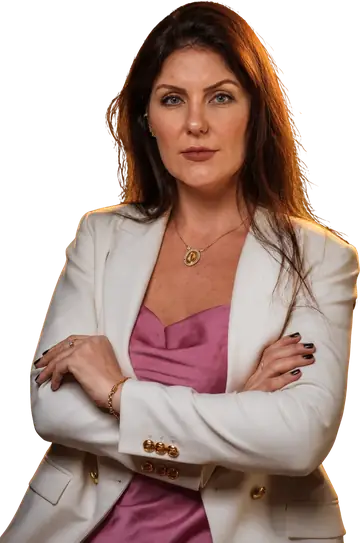
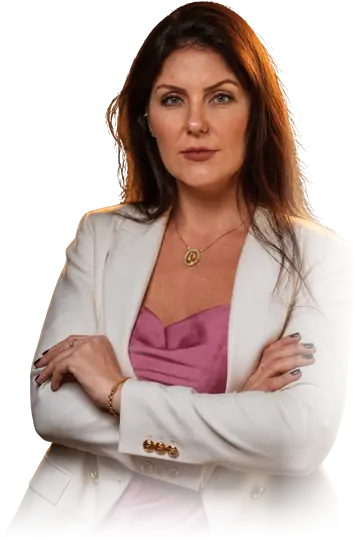
feat(linkbio): hero cinematografico — foto central, luz de recorte e micropixels
Hero enxuto em 5 elementos (nome, credencial, headline com italico, publico, CTA
compacto): saem o monograma KN e o microtexto. A foto vira o centro da composicao,
ancorada na base, com halo dourado assimetrico atras (luz de recorte), vinheta de
contato e entrada sequenciada (luz -> foto -> texto -> CTA).

Correcoes de composicao:
- "quadrado preto" atras da personagem: era o drop-shadow — a silhueta encosta nas
  bordas laterais do recorte e a sombra tinha arestas retas, reveladas pelo halo.
  Removido; aterramento vem da vinheta + fade.
- bordas do recorte dissolvidas NO ASSET (rampa de alfa na direita e na base,
  regenerado do original): sem linha de corte, sem mask CSS, 24->20 KB.
- fade da foto parte de opacity .01 (nao 0) p/ o LCP contar a primeira pintura:
  LCP 920 ms no throttling Slow 4G/CPU 4x (meta 2500).

Chuva de micropixels dourados vira camada fixa da pagina inteira (2 planos de
pontos quadrados via box-shadow, queda lenta dessincronizada, quase imperceptivel).
Tudo desligado em prefers-reduced-motion. Tracking intocado (gates verdes).

Changed region(s): [[0.0, 0.2063, 1.0, 1.0]]

diff --git a/public/link-bio-1/index.html b/public/link-bio-1/index.html
@@ -158,13 +158,18 @@
     @keyframes intro-kn { from { opacity: 0; transform: translateY(10px) scale(.94); } to { opacity: 1; transform: none; } }
     @keyframes intro-linha { to { width: 130px; } }
 
-    /* ── CABEÇALHO ABERTO (não é card) ───────────────────────────────────────
-       Texto à esquerda, retrato à direita em camada própria cruzando o fio de base
-       (a base do recorte esfuma por máscara — nunca um corte reto aparente). */
+    /* ── HERO CINEMATOGRÁFICO ────────────────────────────────────────────────
+       Só 5 elementos: nome, credencial, headline, linha de público, CTA. A fotografia
+       é o centro da composição: grande, ancorada na base, com LUZ DE RECORTE dourada
+       vinda de trás (halo assimétrico, mais forte no cabelo/ombros) e a base se
+       dissolvendo no fundo por máscara + vinheta de contato — ela emerge da
+       interface, não flutua. Chuva de micropixels dourados quase imperceptível.
+       (Halo e pixels usam só os ouros/marfim oficiais — pedido explícito.) */
     .header {
       position: relative;
-      padding: 4px 2px 30px;
-      margin-bottom: 30px;
+      padding: 8px 2px 24px;
+      margin-bottom: 26px;
+      min-height: 238px;
     }
     .header::after {
       content: "";
@@ -175,23 +180,95 @@
       height: 1px;
       background: linear-gradient(90deg, rgba(168,132,60,0), rgba(168,132,60,.3) 14%, rgba(168,132,60,.3) 72%, rgba(168,132,60,0));
     }
-
-    .header__foto {
+    /* luz de recorte: dois brilhos quentes assimétricos + vinheta escura de contato
+       na base (conecta a personagem ao chão da composição) */
+    .header::before {
+      content: "";
       position: absolute;
-      bottom: -16px;
-      right: -14px;
-      z-index: 2;
-      height: 100%;
-      max-height: 274px;
-      width: auto;
-      -webkit-mask-image: linear-gradient(180deg, #0B0A08 86%, rgba(11,10,8,0) 99%);
-      mask-image: linear-gradient(180deg, #0B0A08 86%, rgba(11,10,8,0) 99%);
-      filter: drop-shadow(-12px 10px 24px rgba(0,0,0,.6));
+      inset: -34px -16px 0;
+      z-index: 0;
+      background:
+        radial-gradient(38% 30% at 74% 20%, rgba(212,168,83,.21), transparent 70%),
+        radial-gradient(56% 48% at 83% 48%, rgba(168,132,60,.12), transparent 72%),
+        radial-gradient(48% 20% at 76% 97%, rgba(0,0,0,.6), transparent 78%);
       pointer-events: none;
     }
 
-    .header__texto { position: relative; max-width: 55%; }
-    .header .kn { width: 38px; margin-bottom: 14px; opacity: .92; }
+    /* chuva de micropixels — camada FIXA cobrindo a página inteira (atrás de todo
+       o conteúdo: os cards são opacos, então os pontos vivem no fundo e nos vãos).
+       Dois planos de pontos quadrados (box-shadow) em queda lenta, dessincronizados.
+       Quase imperceptível de propósito. */
+    .pixels {
+      position: fixed;
+      inset: 0;
+      z-index: 0;
+      overflow: hidden;
+      pointer-events: none;
+    }
+    .pixels::before,
+    .pixels::after {
+      content: "";
+      position: absolute;
+      top: 0;
+      left: 0;
+      width: 2px;
+      height: 2px;
+      background: transparent;
+    }
+    .pixels::before {
+      box-shadow:
+        212px 34px rgba(212,168,83,.32), 292px 16px rgba(212,168,83,.26),
+        324px 64px rgba(168,132,60,.26), 252px 88px rgba(212,168,83,.2),
+        124px 52px rgba(168,132,60,.16), 44px 96px rgba(212,168,83,.16),
+        342px 138px rgba(212,168,83,.18), 186px 176px rgba(168,132,60,.2),
+        76px 214px rgba(212,168,83,.16), 262px 252px rgba(168,132,60,.18),
+        330px 310px rgba(212,168,83,.16), 22px 342px rgba(168,132,60,.14),
+        150px 396px rgba(212,168,83,.16), 296px 452px rgba(168,132,60,.16),
+        62px 498px rgba(212,168,83,.14), 232px 556px rgba(168,132,60,.14),
+        348px 612px rgba(212,168,83,.14), 118px 668px rgba(168,132,60,.12),
+        270px 724px rgba(212,168,83,.14), 36px 778px rgba(245,239,226,.1);
+      animation: cair 14s linear infinite;
+    }
+    .pixels::after {
+      width: 1px;
+      height: 1px;
+      box-shadow:
+        184px 54px rgba(212,168,83,.26), 302px 94px rgba(168,132,60,.22),
+        344px 34px rgba(212,168,83,.16), 96px 128px rgba(168,132,60,.14),
+        226px 146px rgba(212,168,83,.18), 30px 186px rgba(212,168,83,.12),
+        318px 224px rgba(168,132,60,.16), 158px 268px rgba(212,168,83,.14),
+        250px 330px rgba(168,132,60,.14), 356px 384px rgba(212,168,83,.14),
+        88px 428px rgba(168,132,60,.12), 204px 486px rgba(245,239,226,.1),
+        306px 542px rgba(212,168,83,.12), 52px 598px rgba(168,132,60,.1),
+        238px 656px rgba(212,168,83,.12), 138px 716px rgba(168,132,60,.1),
+        328px 772px rgba(245,239,226,.08);
+      animation: cair 20s linear infinite;
+      animation-delay: -7s; /* dessincroniza os dois planos */
+    }
+    @keyframes cair {
+      0%   { transform: translateY(-40px); opacity: 0; }
+      10%  { opacity: 1; }
+      82%  { opacity: 1; }
+      100% { transform: translateY(180px); opacity: 0; }
+    }
+
+    .header__foto {
+      position: absolute;
+      bottom: 0;
+      right: -12px;
+      z-index: 2;
+      height: 118%;
+      max-height: 288px;
+      width: auto;
+      /* O fade das arestas (borda direita + base) está GRAVADO NO PRÓPRIO WEBP
+         (rampa de alfa — scripts no scratchpad regeneram a partir de
+         src/assets/kelly-hero-recorte.webp). Nada de mask nem drop-shadow aqui:
+         a sombra da silhueta tinha arestas retas e virava "quadrado preto" sob o
+         halo. O aterramento vem da vinheta de contato no ::before. */
+      pointer-events: none;
+    }
+
+    .header__texto { position: relative; z-index: 3; max-width: 55%; }
     .header__nome {
       font-family: var(--serif);
       font-weight: 600;
@@ -223,14 +300,6 @@
       font-size: 11px;
       line-height: 1.5;
       color: var(--pedra);
-    }
-    .header__micro {
-      margin: 10px 0 0;
-      font-size: 8px;
-      font-weight: 500;
-      letter-spacing: .14em;
-      text-transform: uppercase;
-      color: var(--fumaca);
     }
 
     /* ── CTA de ouro: compacto, à esquerda (só hero e fechamento) ───────────── */
@@ -467,9 +536,18 @@
        A foto anima SÓ por transform (nunca opacity): é o elemento de LCP e um fade a
        partir de 0 empurraria a métrica pro fim da animação. */
     @keyframes rise  { from { opacity: 0; transform: translateY(12px); } to { opacity: 1; transform: none; } }
-    @keyframes desce { from { transform: translateY(-10px); } to { transform: none; } }
-    .header__texto { animation: rise .6s var(--easing) var(--intro) both; }
-    .header__foto  { animation: desce .75s var(--easing) var(--intro) both; }
+    /* sequência: luz surge -> foto entra (fade+sobe) -> nome -> headline -> CTA.
+       O fade da foto parte de opacity .01 (não 0) DE PROPÓSITO: com 0 o browser só
+       registra a pintura do elemento de LCP no fim da animação e a métrica ia a
+       ~2,0s; com .01 (invisível a olho nu) a pintura conta no primeiro frame e o
+       LCP volta a ~1,0s. Não "otimizar" isso para 0. */
+    @keyframes surge { from { opacity: 0; } to { opacity: 1; } }
+    @keyframes foto-entra { from { opacity: .01; transform: translateY(16px); } to { opacity: 1; transform: none; } }
+    .header::before { animation: surge .9s var(--easing) calc(var(--intro) + .08s) both; }
+    .header__foto  { animation: foto-entra .75s var(--easing) calc(var(--intro) + .18s) both; }
+    .header__nome, .header__crm { animation: rise .55s var(--easing) calc(var(--intro) + .48s) both; }
+    .header__h1   { animation: rise .55s var(--easing) calc(var(--intro) + .58s) both; }
+    .header__sub, .header .btn { animation: rise .55s var(--easing) calc(var(--intro) + .68s) both; }
     .cards .item:nth-child(1) { animation: rise .55s var(--easing) calc(var(--intro) + .14s) both; }
     .cards .item:nth-child(2) { animation: rise .55s var(--easing) calc(var(--intro) + .2s) both; }
     .cards .item:nth-child(3) { animation: rise .55s var(--easing) calc(var(--intro) + .26s) both; }
@@ -479,12 +557,14 @@
 
     /* Telas estreitas: a coluna de texto cede um pouco e a foto encolhe */
     @media (max-width: 374px) {
-      .header__texto { max-width: 59%; }
-      .header__foto { max-height: 248px; right: -10px; }
+      .header__texto { max-width: 58%; }
+      .header__foto { max-height: 254px; right: -8px; }
       .header__h1 { font-size: 16px; }
     }
     @media (prefers-reduced-motion: reduce) {
-      .header__texto, .header__foto, .cards .item, .final, footer,
+      .header::before, .header__foto, .header__nome, .header__crm, .header__h1,
+      .header__sub, .header .btn, .pixels::before, .pixels::after,
+      .cards .item, .final, footer,
       .flutua svg, .final .emblema, .intro__kn, .intro__linha { animation: none; }
       .card--trail:hover::before { animation: none; opacity: .5; }
       .item, .btn, .btn-ghost, .btn-ghost .seta, .flutua, .final { transition: none; }
@@ -547,27 +627,26 @@
   })();
   </script>
 
+  <div class="pixels" aria-hidden="true"></div>
+
   <main class="wrap">
 
-    <!-- ── CABEÇALHO ABERTO — não é card ─────────────────────────────────────────────
-         Texto à esquerda, retrato à direita numa camada acima (z-index 2) cruzando o
-         fio de base. Nada recorta a personagem. -->
+    <!-- ── HERO — a foto é o centro da composição: luz de recorte atrás, micropixels,
+         5 elementos só (nome, credencial, headline, público, CTA). -->
     <header class="header">
       <img class="header__foto" src="/linkbio-kelly.webp" width="360" height="543"
            alt="Dra. Kelly Neisse" fetchpriority="high" />
       <div class="header__texto">
-        <img class="kn" src="/linkbio-kn.webp" width="271" height="216" alt="" aria-hidden="true" />
         <p class="header__nome">Dra. Kelly Neisse</p>
         <p class="header__crm">Médica | CRM/MG 109153</p>
         <h1 class="header__h1">Assistência Técnica Médica em <em>Perícias Judiciais</em></h1>
-        <p class="header__sub">Atuação para advogados, empresas e partes em processos trabalhistas e cíveis.</p>
+        <p class="header__sub">Para advogados, empresas e partes.</p>
         <a class="btn"
            data-cta="hero"
            href="https://tintim.link/whatsapp/9032d846-c29e-46d1-a300-01417d56fcb0/e60e4650-d8e3-402e-b7fb-bef6594db534?utm_source=instagram&utm_medium=bio&utm_campaign=linkbio-kelly&utm_content=hero">
           <svg viewBox="0 0 24 24" fill="currentColor" aria-hidden="true"><path d="M12.04 2C6.58 2 2.13 6.45 2.13 11.91c0 1.75.46 3.45 1.32 4.95L2 22l5.25-1.38a9.9 9.9 0 0 0 4.79 1.22h.01c5.46 0 9.91-4.45 9.91-9.91S17.5 2 12.04 2Zm0 18.17h-.01a8.2 8.2 0 0 1-4.19-1.15l-.3-.18-3.12.82.83-3.04-.2-.31a8.19 8.19 0 0 1-1.26-4.4c0-4.54 3.7-8.23 8.25-8.23a8.23 8.23 0 0 1 0 16.46Zm4.52-6.16c-.25-.12-1.47-.72-1.69-.81-.23-.08-.39-.12-.56.13-.16.24-.64.8-.79.97-.14.16-.29.19-.54.06-.25-.12-1.05-.39-1.99-1.23-.74-.66-1.23-1.47-1.38-1.72-.14-.25-.01-.38.11-.5.11-.11.25-.29.37-.44.13-.14.17-.25.25-.41.09-.17.04-.31-.02-.44-.06-.12-.56-1.35-.77-1.84-.2-.49-.4-.42-.55-.43l-.47-.01c-.16 0-.42.06-.64.31-.22.24-.84.82-.84 2s.86 2.32.98 2.48c.12.16 1.7 2.59 4.11 3.63.58.25 1.02.4 1.37.51.58.18 1.1.16 1.52.1.46-.07 1.47-.6 1.68-1.18.21-.58.21-1.07.14-1.18-.06-.11-.22-.17-.47-.29Z"/></svg>
           Fale no WhatsApp
         </a>
-        <p class="header__micro">Atendimento exclusivo • Retorno em até 2 dias úteis</p>
       </div>
     </header>
 
